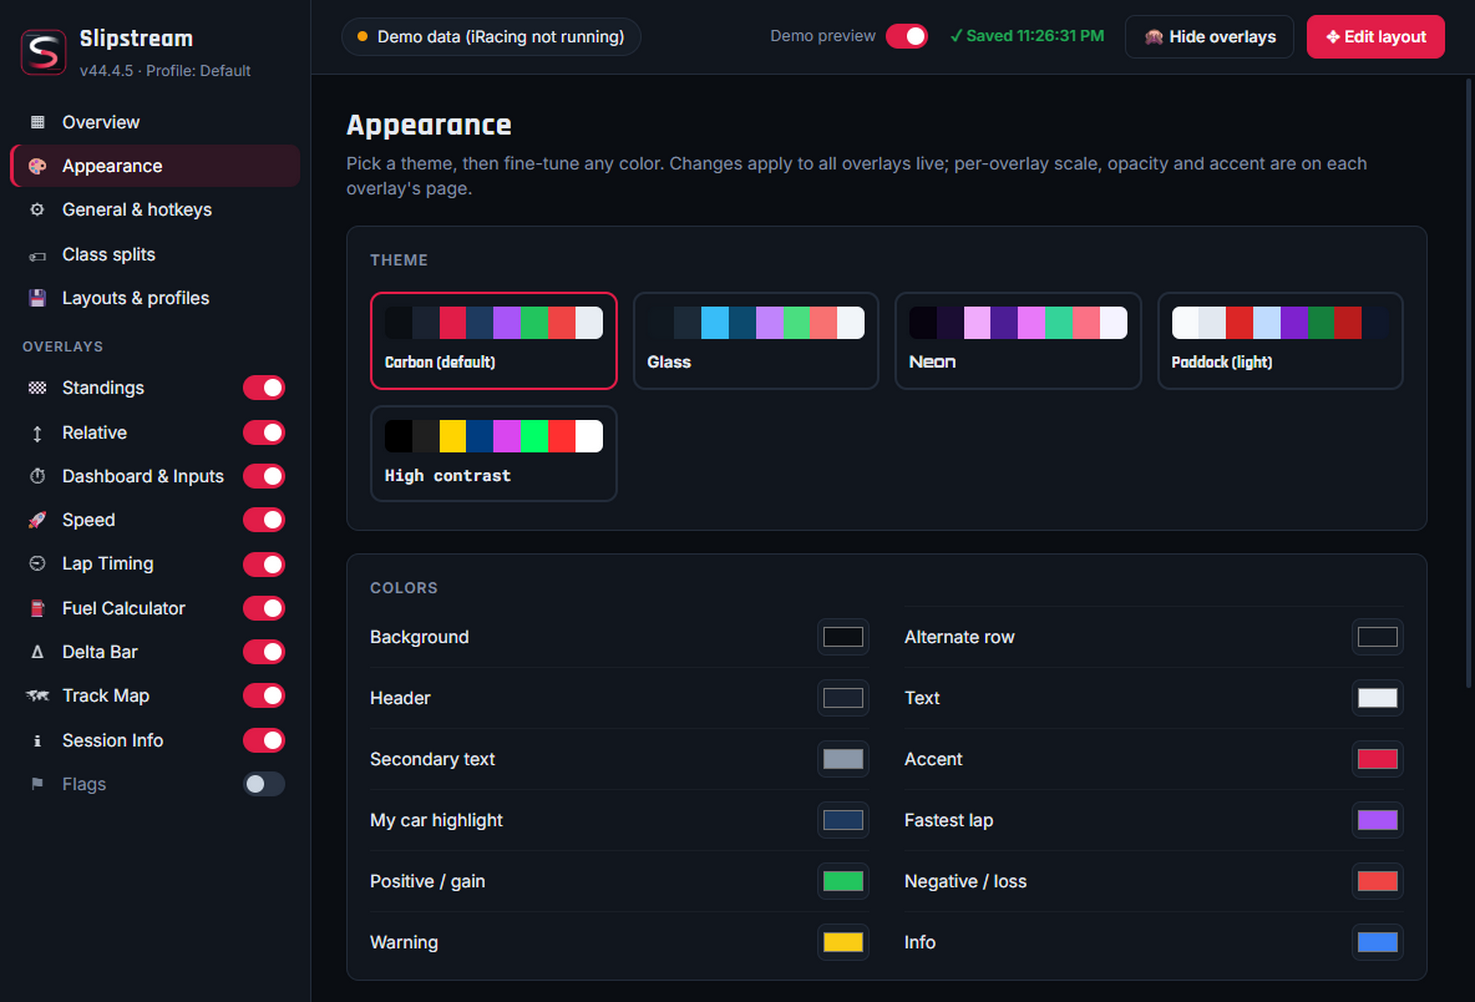
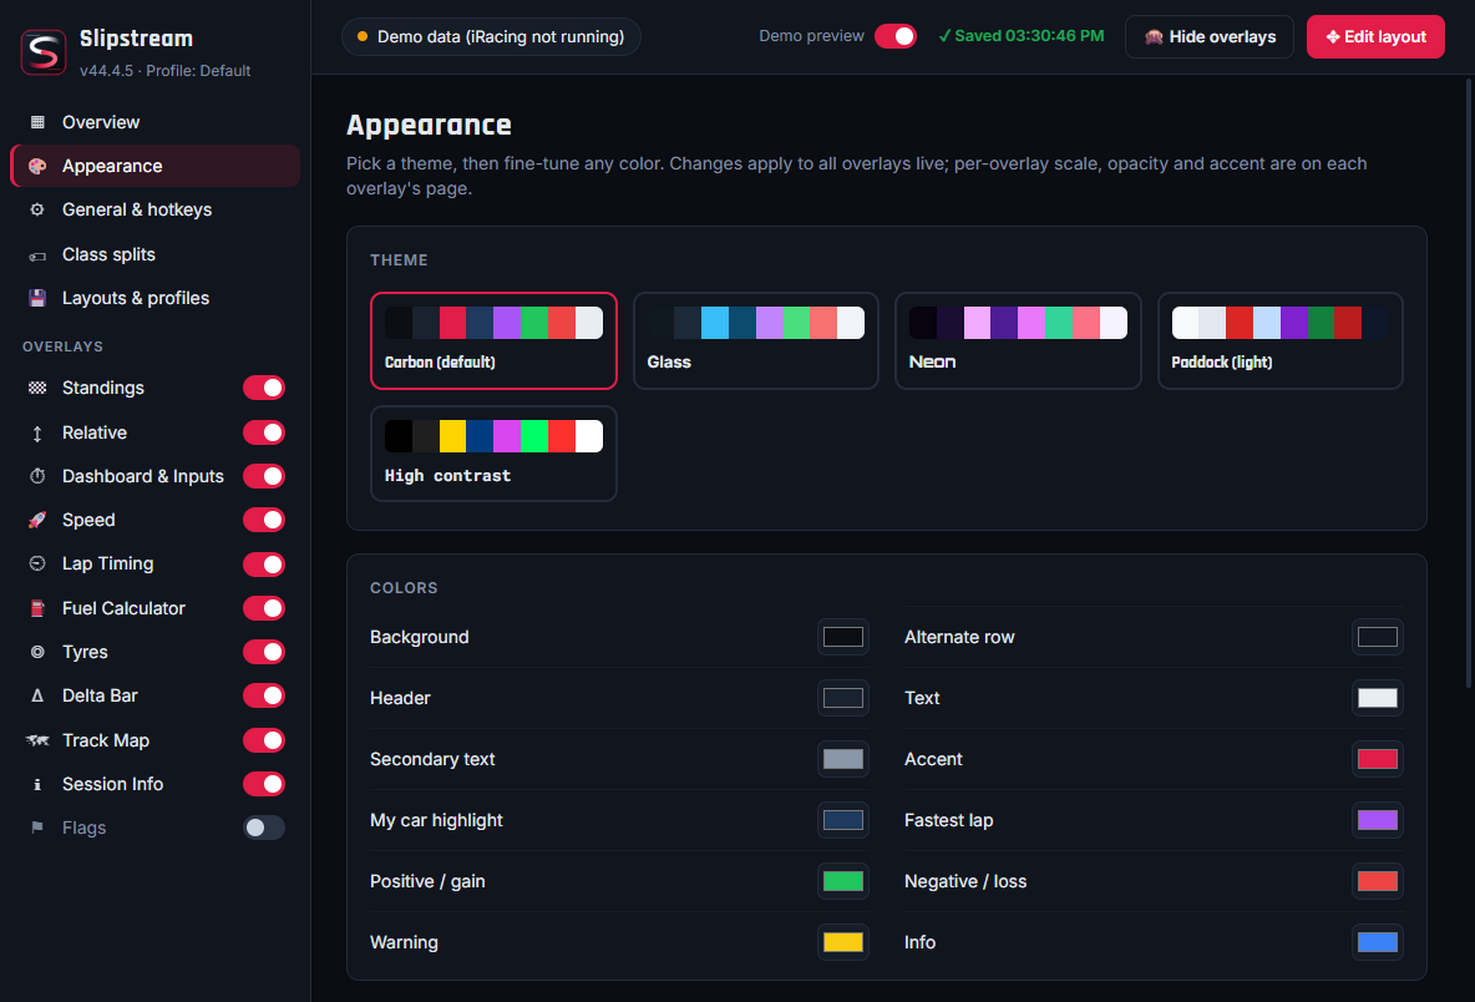
README: Tyres overlay, delta and gap notes
- Tyres in the overlays table, the picture grid and Good to know (pit readings vs LIVE).
- Screenshots regenerated with Tyres switched on.

Changed region(s): [[0.0, 0.6188, 0.1247, 0.8353], [0.499, 0.0, 0.7173, 0.0619], [0.1559, 0.7735, 0.2183, 0.8353]]

diff --git a/README.md b/README.md
@@ -4,7 +4,7 @@
 
 <p align="center">
 Free, customizable overlays for iRacing.<br>
-Standings, relative, dashboard & inputs, lap timing, fuel, delta, an auto-learned track map and more.
+Standings, relative, dashboard & inputs, lap timing, fuel, delta, tyres, an auto-learned track map and more.
 </p>
 
 <p align="center">
@@ -44,6 +44,9 @@ Standings, relative, dashboard & inputs, lap timing, fuel, delta, an auto-learne
   <tr>
     <td align="center"><img src="docs/screenshots/delta.png" width="400" alt="Delta bar"><br><sub><b>Delta bar</b></sub></td>
     <td align="center"><img src="docs/screenshots/speed.png" width="400" alt="Speed"><br><sub><b>Speed</b></sub></td>
+  </tr>
+  <tr>
+    <td align="center" colspan="2"><img src="docs/screenshots/tires.png" width="400" alt="Tyres"><br><sub><b>Tyres</b>: blue = cold, green = in the window, red = overheating</sub></td>
   </tr>
 </table>
 </div>
@@ -161,7 +164,8 @@ and show again when you drive.
 | **Speed** | Just speed and gear, in three layouts. **Side lights** (default): rev lights on both sides fill green to red with RPM and strobe when it's time to shift, with thin outer lanes that strobe amber on wheelspin and red on a lock-up. **Light strip**: the same rev lights as one bar underneath, and the speed turns amber or red while you slip. **Classic**: a rev indicator behind the gear and a round wheelspin / lock-up lamp |
 | **Lap Timing** | Live sector times (green = personal best, purple = class best), last/best/optimal lap, and a lap log with sectors, delta, fuel used, and off-track/pit markers |
 | **Fuel Calculator** | Average, last and max fuel per lap (green-flag laps only), laps left, fuel to finish with a safety margin, amount to add, stops needed |
-| **Delta Bar** | Live delta to your best, optimal, session best or last lap, predicted lap time, a **sector delta bar** (time gained or lost in the current sector alone), and gap bars to the cars directly ahead and behind that turn green while you gain and red while you lose. In races these are the class cars physically ahead and behind you on track, so after a spin they update at once instead of waiting for the next timing line |
+| **Delta Bar** | Live delta to your best, optimal, session best or last lap, predicted lap time (against the lap iRacing really compares you to, which after an off-track can be slower than your fastest lap), a **sector delta bar** (time gained or lost in the current sector alone), and gap bars to the cars directly ahead and behind that turn green while you gain and red while you lose. In races these are the class cars physically ahead and behind you on track, so after a spin they update at once instead of waiting for the next timing line, and the gap to a car stopped on track shrinks as you close in |
+| **Tyres** | Temperatures across each tyre (inside, middle, outside edge), colored blue below your optimal window, green in it and red above it, plus pressures and optional wear. You set the window and the units (°C / °F; psi, bar or kPa); the defaults suit GT3 tyres, and with a profile per car each car keeps its own window. **Off by default**; turn it on in settings |
 | **Track Map** | **Learned automatically** from your first clean lap, then saved for that track. Shows every car in class colors, cars in the pits and the start/finish line. **Off by default**; turn it on in settings |
 | **Session Info** | Session, time or laps left, lap, position, incidents vs limit, SOF, temperatures, track wetness, local and sim time. **Off by default**; turn it on in settings |
 | **Flags** | A big flag indicator: checkered, red, black, meatball, caution, debris, yellow, blue, white, one-to-green and green. **Off by default**; turn it on in settings |
@@ -295,6 +299,9 @@ Your settings and layouts are always kept.
 - The **wheelspin / lock-up light** is an estimate. iRacing doesn't share wheel speeds, so Slipstream learns how
   engine RPM relates to road speed in each gear, and lights up when the RPM jumps above it (wheelspin) or drops
   below it (lock-up), or when ABS is working. Front lock-ups on rear-drive cars without ABS can't be detected.
+- **Tyre temperatures:** iRacing may only send new tyre temperatures while you're in the pit stall. The Tyres
+  header says **LIVE** once they change while you drive; otherwise it says which lap the pit reading is from.
+  Pressures marked *cold* are the cold (garage) pressures.
 - The **iRating change** in Standings is an estimate based on the community-derived iRacing formula.
 - **Country flags** come from the flag each driver picked in iRacing (their "flair"). Drivers who kept the
   iRacing logo get no flag. Flag images: [flag-icons](https://github.com/lipis/flag-icons) (MIT).
